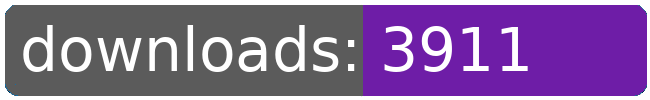
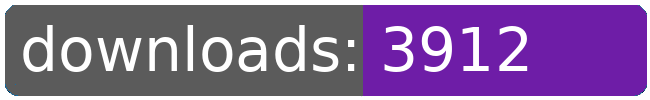
dl log written

Changed region(s): [[0.7692, 0.24, 0.8308, 0.69]]

diff --git a/README.md b/README.md
@@ -120,8 +120,8 @@
 		<td>3859</td>
 		<td>3877</td>
 		<td>3898</td>
-		<td>3911</td>
-		<td>+ 13</td>
+		<td>3912</td>
+		<td>+ 14</td>
 	</tr>
 	<tr>
 		<td>map.reveal</td>
@@ -274,8 +274,8 @@
 		<td></td>
 		<td></td>
 		<td></td>
-		<td>69785</td>
-		<td>269</td>
+		<td>69786</td>
+		<td>270</td>
 	</tr>
 </table>
 </sub></sup>
@@ -355,8 +355,8 @@
 		<td>3859</td>
 		<td>3877</td>
 		<td>3898</td>
-		<td>3911</td>
-		<td>+ 13</td>
+		<td>3912</td>
+		<td>+ 14</td>
 	</tr>
 	<tr>
 		<td>purchase.bactrian</td>
@@ -553,8 +553,8 @@
 		<td></td>
 		<td></td>
 		<td></td>
-		<td>69785</td>
-		<td>269</td>
+		<td>69786</td>
+		<td>270</td>
 	</tr>
 </table>
 </sub></sup>
